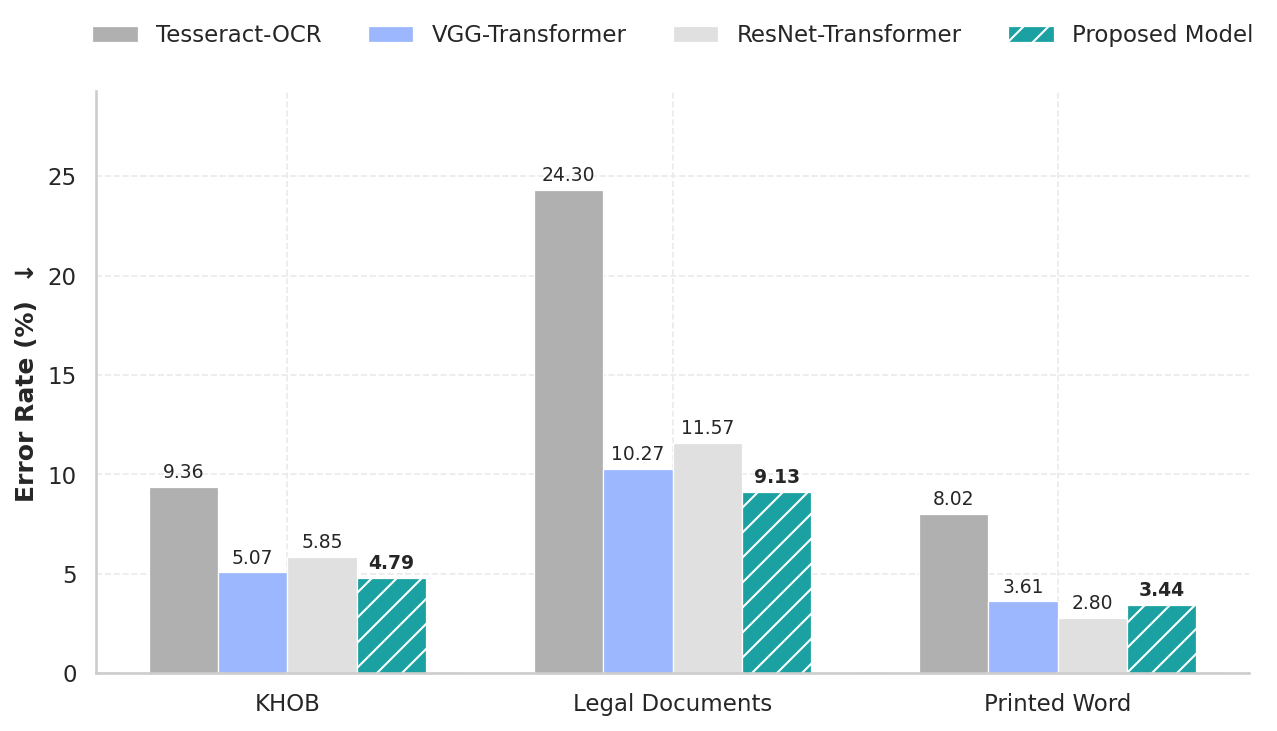
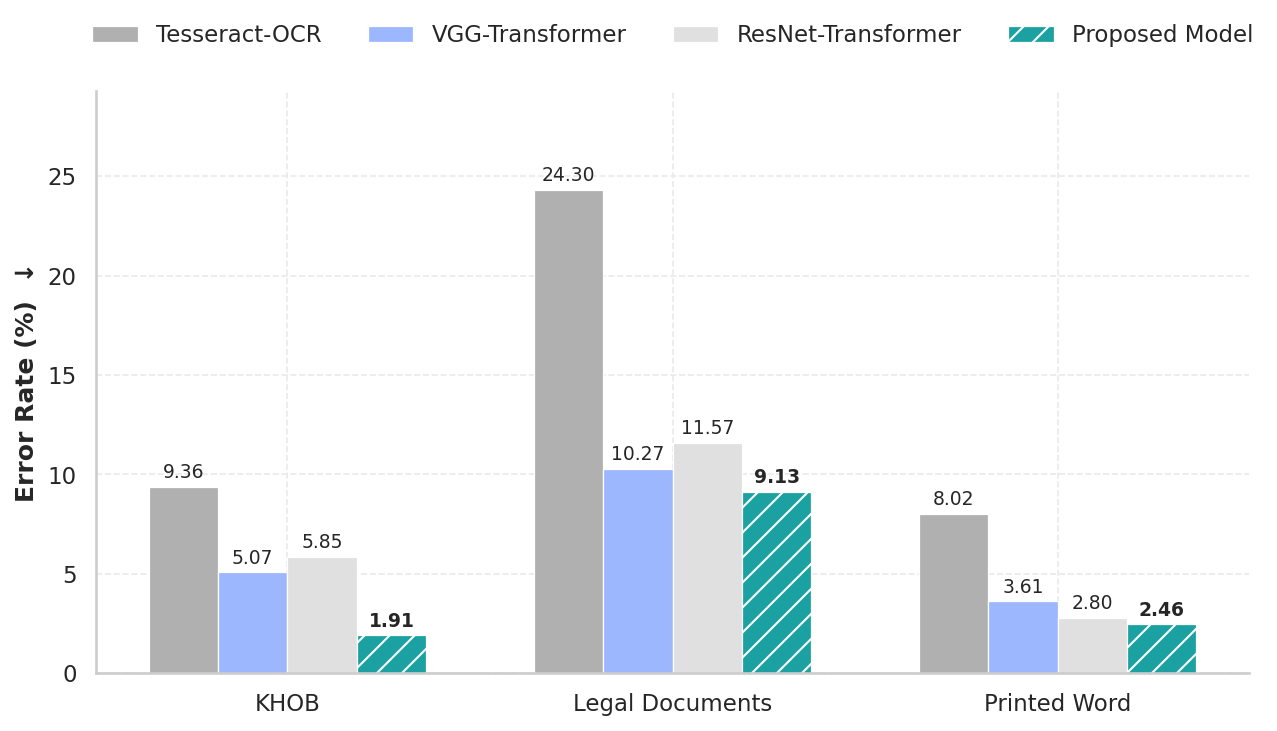
Added benchmak

Changed region(s): [[0.2749, 0.7524, 0.3359, 0.8728], [0.8857, 0.7825, 0.9468, 0.8728]]

diff --git a/readme.md b/readme.md
@@ -127,8 +127,8 @@ TABLE 1: Character Error Rate (CER in %) results on the KHOB, Legal Documents, a
 | :--- | :--- | :--- | :--- |
 | Tesseract-OCR | 9.36 | 24.30 | 8.02 |
 | VGG-Transformer | 5.07 | 10.27 | 3.61 |
-| ResNet-Transformer | 5.85 | 11.57 | $\textcolor{yellow}{2.80}$ |
-| **Proposed Model** | $\textcolor{yellow}{4.79}$ | $\textcolor{yellow}{9.13}$ | 3.44 |
+| ResNet-Transformer | 5.85 | 11.57 | 2.80 |
+| **Proposed Model** | $\textcolor{yellow}{1.91}$ | $\textcolor{yellow}{9.13}$ | $\textcolor{yellow}{2.46}$ |
 
 ---
 
